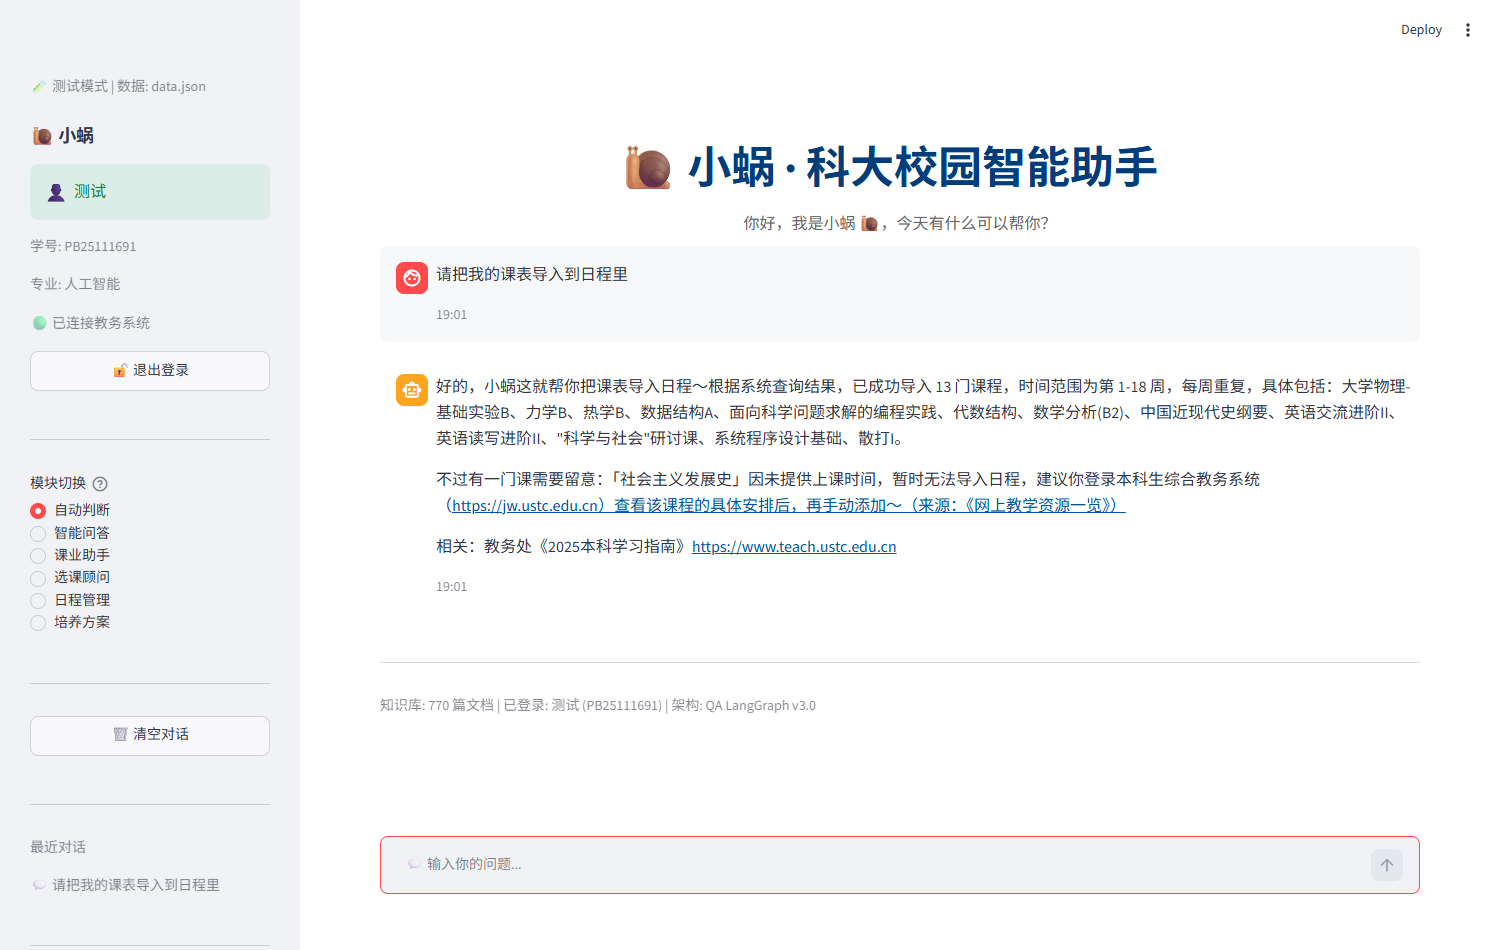
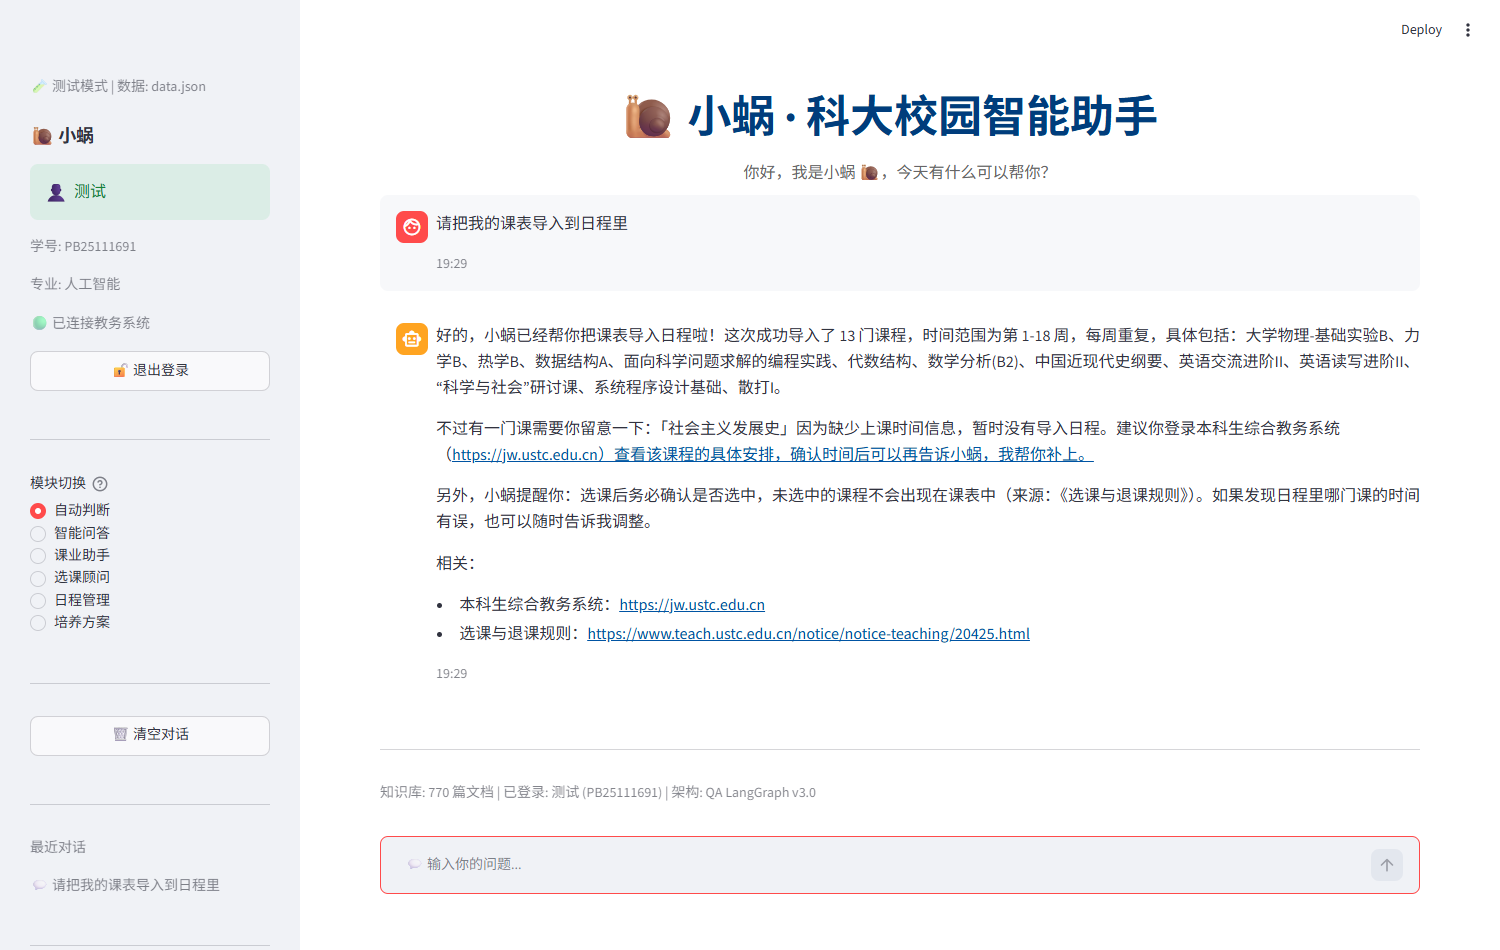
fix: 日课表链路修复——query_daily_schedule 降级分支改用统一时间解析器（原正则与库内格式永不相配致任意星期 0 门课），输出精确时钟/节次/周次；schedule_parse 新增 normalize_time_str 唯一实现；摘要层日课表优先展示换算时钟（防"第19:00~19:30节"被误读为节次号）；确定性路由新增"周X+安排/课"问句直连日课表（防 think 漂到 get_day_view 不解析日期）；实测三问全过（导入13门/周四晚19:00实验课/周日无课如实）

diff --git a/tools/course_tools.py b/tools/course_tools.py
@@ -459,33 +459,31 @@ def query_daily_schedule(date: str = None, student_id: str = None) -> dict:
         return {"student_id": sid, "date": target_date.isoformat(), "weekday": weekday,
                 "courses": [], "count": 0, "source": "locked", "message": _LOGIN_MSG}
 
+    from utils.schedule_parse import normalize_time_str, parse_course_time, slot_clock_range
+
     rows = _db().query(
         "SELECT * FROM student_courses WHERE student_id = ?", (sid,))
     courses = []
     for r in rows:
         time_str = r.get("time", "") or ""
-        # 解析 time 中所有 ":N(节次)" 段，判断课程是否在目标星期
-        day_matches = _re.findall(r":(\d)\(([^)]+)\)", time_str)
-        periods_this_day = []
-        for dn, ps in day_matches:
-            if _DAY_MAP.get(dn) == weekday:
-                for p in ps.split(","):
-                    p = p.strip()
-                    if p.isdigit() and 1 <= int(p) <= 13:
-                        periods_this_day.append(int(p))
-        if not periods_this_day:
-            continue
-        time_range = periods_to_range(sorted(set(periods_this_day)))
-        courses.append({
-            "course_code": r.get("course_code", ""),
-            "course_name": r.get("course_name", ""),
-            "teacher": r.get("teacher", ""),
-            "location": r.get("location", ""),
-            "time": time_str,
-            "start_time": time_range["start"] if time_range else "",
-            "end_time": time_range["end"] if time_range else "",
-            "periods": time_range["periods_text"] if time_range else "",
-        })
+        # 统一时间解析器（兼容 jw/备份/时钟变体），按目标星期取该课的排课时段
+        slots = parse_course_time(normalize_time_str(time_str))
+        for slot in slots:
+            if slot.get("day") != weekday:
+                continue
+            clock = slot_clock_range(slot)
+            periods = slot.get("periods") or []
+            courses.append({
+                "course_code": r.get("course_code", ""),
+                "course_name": r.get("course_name", ""),
+                "teacher": r.get("teacher", ""),
+                "location": r.get("location", ""),
+                "time": time_str,
+                "start_time": f"{clock[0] // 60:02d}:{clock[0] % 60:02d}" if clock else "",
+                "end_time": f"{clock[1] // 60:02d}:{clock[1] % 60:02d}" if clock else "",
+                "periods": f"第{','.join(str(p) for p in periods)}节" if periods else "",
+                "weeks": slot.get("weeks_raw", ""),
+            })
     return {"student_id": sid, "date": target_date.isoformat(), "weekday": weekday,
             "courses": courses, "count": len(courses), "source": "fallback",
             "message": "⚠ 教务接口暂时不可用，以下为本地缓存课表，仅供参考"}

diff --git a/tools/schedule_tools.py b/tools/schedule_tools.py
@@ -227,10 +227,9 @@ def import_schedule(student_id: str) -> dict:
     Returns:
         {"imported_count": N, "courses": [...], "time_unparsed": [...], "note": "..."}
     """
-    import re as _re
     from config import SEMESTER
     from tools.course_tools import query_schedule
-    from utils.schedule_parse import parse_course_time, slot_clock_range
+    from utils.schedule_parse import normalize_time_str, parse_course_time, slot_clock_range
 
     try:
         base_date = date.fromisoformat(str(SEMESTER.get("start_date", "")))
@@ -246,10 +245,6 @@ def import_schedule(student_id: str) -> dict:
     schedule = query_schedule.invoke({"student_id": student_id})
     courses = schedule["courses"]
 
-    # 兼容无"第"前缀的节次写法（如"周一3-4节"）后统一交给 parse_course_time；
-    # 排除已带"第"、时钟（含冒号）与列表中段的数字，避免误改"第19:00~19:30节"等变体
-    _add_di = _re.compile(r"(?<![第:\d,，])(\d+(?:[-,，]\d+)*节)")
-
     imported = []
     time_unparsed = []
     for c in courses:
@@ -263,7 +258,8 @@ def import_schedule(student_id: str) -> dict:
         if existing:
             continue
 
-        slots = parse_course_time(_add_di.sub(r"第\1", time_str)) if time_str else []
+        # 兼容无"第"前缀的节次写法（如"周一3-4节"）后统一交给 parse_course_time
+        slots = parse_course_time(normalize_time_str(time_str)) if time_str else []
         placed = False
         for slot in slots:
             if slot.get("day_num") is None:

diff --git a/utils/schedule_parse.py b/utils/schedule_parse.py
@@ -28,6 +28,17 @@ _WEEKS_RE = re.compile(r"(\d+(?:\s*[~\-—至,，]\s*\d+)*)\s*周")
 _PERIODS_RE = re.compile(r"第([0-9,，\-]+)\s*节")
 _CLOCK_RE = re.compile(r"(\d{1,2}:\d{2})\s*[~\-—至]\s*(\d{1,2}:\d{2})")
 
+# 无"第"前缀的节次写法（如"周一3-4节"）；lookbehind 排除已带"第"、时钟（含冒号）
+# 与列表中段的数字，避免误改"第19:00~19:30节"等时钟变体
+_ADD_DI_RE = re.compile(r"(?<![第:\d,，])(\d+(?:[-,，]\d+)*节)")
+
+
+def normalize_time_str(time_str: str) -> str:
+    """为无"第"前缀的节次写法补"第"（"周一3-4节"→"周一第3-4节"），供 parse_course_time 统一解析。"""
+    if not time_str:
+        return time_str
+    return _ADD_DI_RE.sub(r"第\1", time_str)
+
 
 def _to_minutes(hhmm: str) -> int:
     """'09:45' → 585"""

diff --git a/docs/接手日志.md b/docs/接手日志.md
@@ -22,7 +22,8 @@
 - **测试数据路径彻底修复（2026-08-21，提交 cb330ab）**：app_test.py 测试数据定位改为**优先工作区固定备份** `scripts/data/xiaowo_personal/data.json`（由 rebuild_testdata.py 维护），回退 `%TEMP%`——沙箱每次启动分配随机 TEMP（dsh-XXXX），复制到 %TEMP% 不可靠；报错指引改 rebuild_testdata.py
 - **评课思维链修复（2026-08-21，提交 7d4f663，用户报告"张明波B2评价前后矛盾"）**：根因三层——① 决策层 THINK 规则11 无"老师+课程"双参数问法；② 摘要层教师模式无专门分支落入 json.dumps[:800] 截断（B2 数据丢失）；③ 工具层双参数裸子串匹配（"数分B2"∉"数学分析(B2)"）。修复：规则11 增双参数；`_plan_advisor` 双参数提取；`_build_tool_summary` 新增教师模式分支（完整呈现各课程评分+评论）；工具层双参数过滤改简称映射+归一化互相包含（数分/线代/概统/高数/大物/大英）。验证：4 种写法命中张明波 B2 9.3/26 条
 - **检索/决策链路加固（2026-08-21，提交 33df671，用户报告"退学联系谁答不出教秘/张明波有哪些课答只有B1"）**：四层根因——① 名单块检索盲区（学院教秘名单块向量语义远+BM25 命中高频虚词得负分被 `s>0` 过滤）→ BM25 负分块兜底补入；② 教师开课问法被 embedding 归入「课程搜索」调 search_courses(教师名) 查不到 → 新增 `_teacher_course_route` 确定性路由 + intents.py 教师点评补 6 示例句；③ retrieve 重检索失效（top_k=5 太小 + search 结果缺 id 字段致去重失效）→ top_k 12 + 结果补 id；④ 摘要按追加顺序显示致 retrieve 追加的高相关块被挤出 → `_build_candidates_summary` 按 score 降序取前 12；THINK 规则 19：联系人类事务须以"学院名+教学秘书+联系方式"补检索（学院名取自画像）；教秘文档名单按学院拆块（空行分隔）+ AI 学院张若冰块加退学/学籍事务引导词。验证：退学联系谁→完整给出张若冰/63600294/西区科技实验楼东715会议室；张明波有哪些课→7 门课
-- **P3-3 学期常量配置化完成（2026-08-22，代码就绪待提交）**：① `config.py` 新增 `SEMESTER`（name/start_date/total_weeks，env `XIAOWO_SEMESTER_START` 可覆盖；start_date 必须为学期首个周一）；② `import_schedule` 重写——开学日期读配置、节次→时钟换算复用 `utils/schedule_parse.parse_course_time` + `utils/course_periods.PERIOD_TIMES`（13 节含晚课 11-13，如"第11-13节"→19:30-21:55），无"第"前缀写法（"周一3-4节"）预处理补"第"（lookbehind 排除时钟变体"第19:00~19:30节"），无法解析时间不猜时间、`time_unparsed` 如实列出；③ 顺带修两个存量 bug：`import_schedule` 直接调用 StructuredTool 抛 TypeError（改 `.invoke`，此前无测试覆盖未暴露）；`_query_day_events` 把 `is_recurring=1` 当"每天重复"→ 改 `strftime('%w')` 按星期过滤（课表导入语义=每周该星期）。验证：test_fixes 43/43 · verify_tools 39/39 · verify_nodes 46/46 · check_course_db 9/9；UI 实测（app_test 8502）：「把课表导入日程」→ 13 门导入 + 社会主义发展史（无排课时间）如实未导入并附教务链接（截图 `docs/e2e_p33_import.png`）；「周四晚上有什么安排」暴露**新存量 bug**：`query_daily_schedule` 降级分支正则 `:(\d)\(([^)]+)\)` 与库内实际格式"周四 3~16周 第8,9,10节"不符，**任何星期都返回 0 门课**（日志确认 think 决策正确、工具返回 0；截图 `docs/e2e_p33_thursday.png`）→ 列为下一步 Step 1b 修复（改用 parse_course_time 解析）。临时脚本 `scripts/tmp_p33_check.py`/`tmp_p33_e2e.py`（gitignored，可清理）。
+- **Step 1b 日课表链路修复完成（2026-08-22，代码就绪待提交）**：修 `query_daily_schedule` 降级分支存量 bug（正则 `:(\d)\(...)` 与库内"周四 3~16周 第8,9,10节"格式永不相配→任何星期 0 门课）——① `utils/schedule_parse.py` 新增 `normalize_time_str`（无"第"前缀补"第"，唯一实现，import_schedule 同步改用）；② 降级分支改 `parse_course_time`+`slot_clock_range` 按星期取时段、输出精确时钟/节次/周次（`weeks` 新字段），同课多时段逐段返回；③ `_build_tool_summary` 日课表分支优先展示换算时钟（避免"第19:00~19:30节"原始串被 LLM 误读为节次号，轮1 实测曾因此答错）；④ think 漂移加固：`_direct_tool_route` 新增"周X/明天+安排/课/日程疑问句"确定性直连 `query_daily_schedule`（带 date），防 think 漂到 `get_day_view` 且不解析日期（实测曾把"周四晚上"答成"今天周六无事件"）；THINK 规则 16 补日期解析要求。单测：路由谓词 8/8（不误触"加日程/安排时间建议/活动"问句）；直连：周二4/周三3/周四2（含 19:00-19:30 实验课）/周五2/周一2 门全对。回归：test_fixes 43/43 · verify_tools 39/39 · verify_nodes 46/46 · check_course_db 9/9 · qa_consistency 12/12（中间一轮 90分绩点用例单失败为 LLM 波动，复跑通过）。UI 实测三问全 PASS：导入 13 门+如实排除 / 周四晚 19:00~19:30 实验课（表格含节次周次）/ 明天(周日)无课如实回答（截图 `docs/e2e_p33_import.png`、`e2e_p33_thursday.png` 已更新、`e2e_p33_tomorrow.png` 新增）。
+- **P3-3 学期常量配置化完成（2026-08-22，已提交 3dfe303 并推送）**：① `config.py` 新增 `SEMESTER`（name/start_date/total_weeks，env `XIAOWO_SEMESTER_START` 可覆盖；start_date 必须为学期首个周一）；② `import_schedule` 重写——开学日期读配置、节次→时钟换算复用 `utils/schedule_parse.parse_course_time` + `utils/course_periods.PERIOD_TIMES`（13 节含晚课 11-13，如"第11-13节"→19:30-21:55），无"第"前缀写法（"周一3-4节"）预处理补"第"（lookbehind 排除时钟变体"第19:00~19:30节"），无法解析时间不猜时间、`time_unparsed` 如实列出；③ 顺带修两个存量 bug：`import_schedule` 直接调用 StructuredTool 抛 TypeError（改 `.invoke`，此前无测试覆盖未暴露）；`_query_day_events` 把 `is_recurring=1` 当"每天重复"→ 改 `strftime('%w')` 按星期过滤（课表导入语义=每周该星期）。验证：test_fixes 43/43 · verify_tools 39/39 · verify_nodes 46/46 · check_course_db 9/9；UI 实测（app_test 8502）：「把课表导入日程」→ 13 门导入 + 社会主义发展史（无排课时间）如实未导入并附教务链接（截图 `docs/e2e_p33_import.png`）；「周四晚上有什么安排」暴露**新存量 bug**：`query_daily_schedule` 降级分支正则 `:(\d)\(([^)]+)\)` 与库内实际格式"周四 3~16周 第8,9,10节"不符，**任何星期都返回 0 门课**（日志确认 think 决策正确、工具返回 0；截图 `docs/e2e_p33_thursday.png`）→ 列为下一步 Step 1b 修复（改用 parse_course_time 解析）。临时脚本 `scripts/tmp_p33_check.py`/`tmp_p33_e2e.py`（gitignored，可清理）。
 - **总纲制定（2026-08-22，v2.0 重写）**：`docs/总纲与工具接口方案.md` ——后续开发总体指导方案：第六部分执行者须知（环境/验证基线/e2e 断言/不造假/提交规范）；Phase 3 部署与可靠性（P3-1 CAS 白名单、P3-2 LLM 三层降级、P3-3 学期常量配置化含晚课节次、P3-4 重爬 SOP 脚本化）→ Phase 4 工具生态（P4-1 注册协议 v1+加载器、P4-2 render_link、P4-3 能力广场、P4-4 试点 2 个、P4-5 可信度规范）→ Phase 5 卡片/晨报/方案页联动 → Phase 6 测试交付；路径 A「API Gateway 为主」/路径 B「render_link 子集」；技术选型 6 项对比、六周路线图（含并行派发）、风险 10 项。**两处事实修正**：① 注册表实测 **26 工具**（`agents/tool_registry.py` 代码为准，旧记 24 过时）；② 补数据源 **catalog.ustc.edu.cn 公共目录 API**（CatalogAPI 5 方法：学期/排课/考试/课程搜索/教室占用，无需登录）。待办 1/2/3 与 P3-1/P3-2~4/P6-1 一一对应，零重复。
 - **提交约定不变**：列清单 → 聊天批准 → **用 pwsh 执行 `git commit`**（系统 git_commit 工具被沙箱阻断：无法建 `.git/index.lock`，勿再尝试）→ push origin main；身份 `-c user.name="xiaowo-dev" -c user.email="xiaowo@local"`；commit message 用**单引号**包裹（PowerShell 双引号内 `\"` 会转义破坏）。
 - **沙箱内 git push 方案（2026-08-15 实测打通）**：沙箱进程读不到 Windows 凭据管理器（GCM/wincred 均报 SEC_E_NO_CREDENTIALS），schannel TLS 也被拦；且本机 hosts 把 github 域名指向 127.0.0.1（SteamTools/Watt Toolkit 加速代理，只下发自签叶子证书）。可行组合：`git -c http.sslBackend=openssl -c http.sslCAInfo=<SteamTools CA pem> -c credential.helper= -c http.extraheader="AUTHORIZATION: basic <base64(x-access-token:PAT)>" push origin main`；SteamTools CA（CN=SteamTools Certificate）从 `Cert:\CurrentUser\Root` 导出 DER 再用 openssl 转 PEM（已存 `scripts/data/steamtools_ca.pem`）。PAT 需用户提供，用后提醒吊销。
